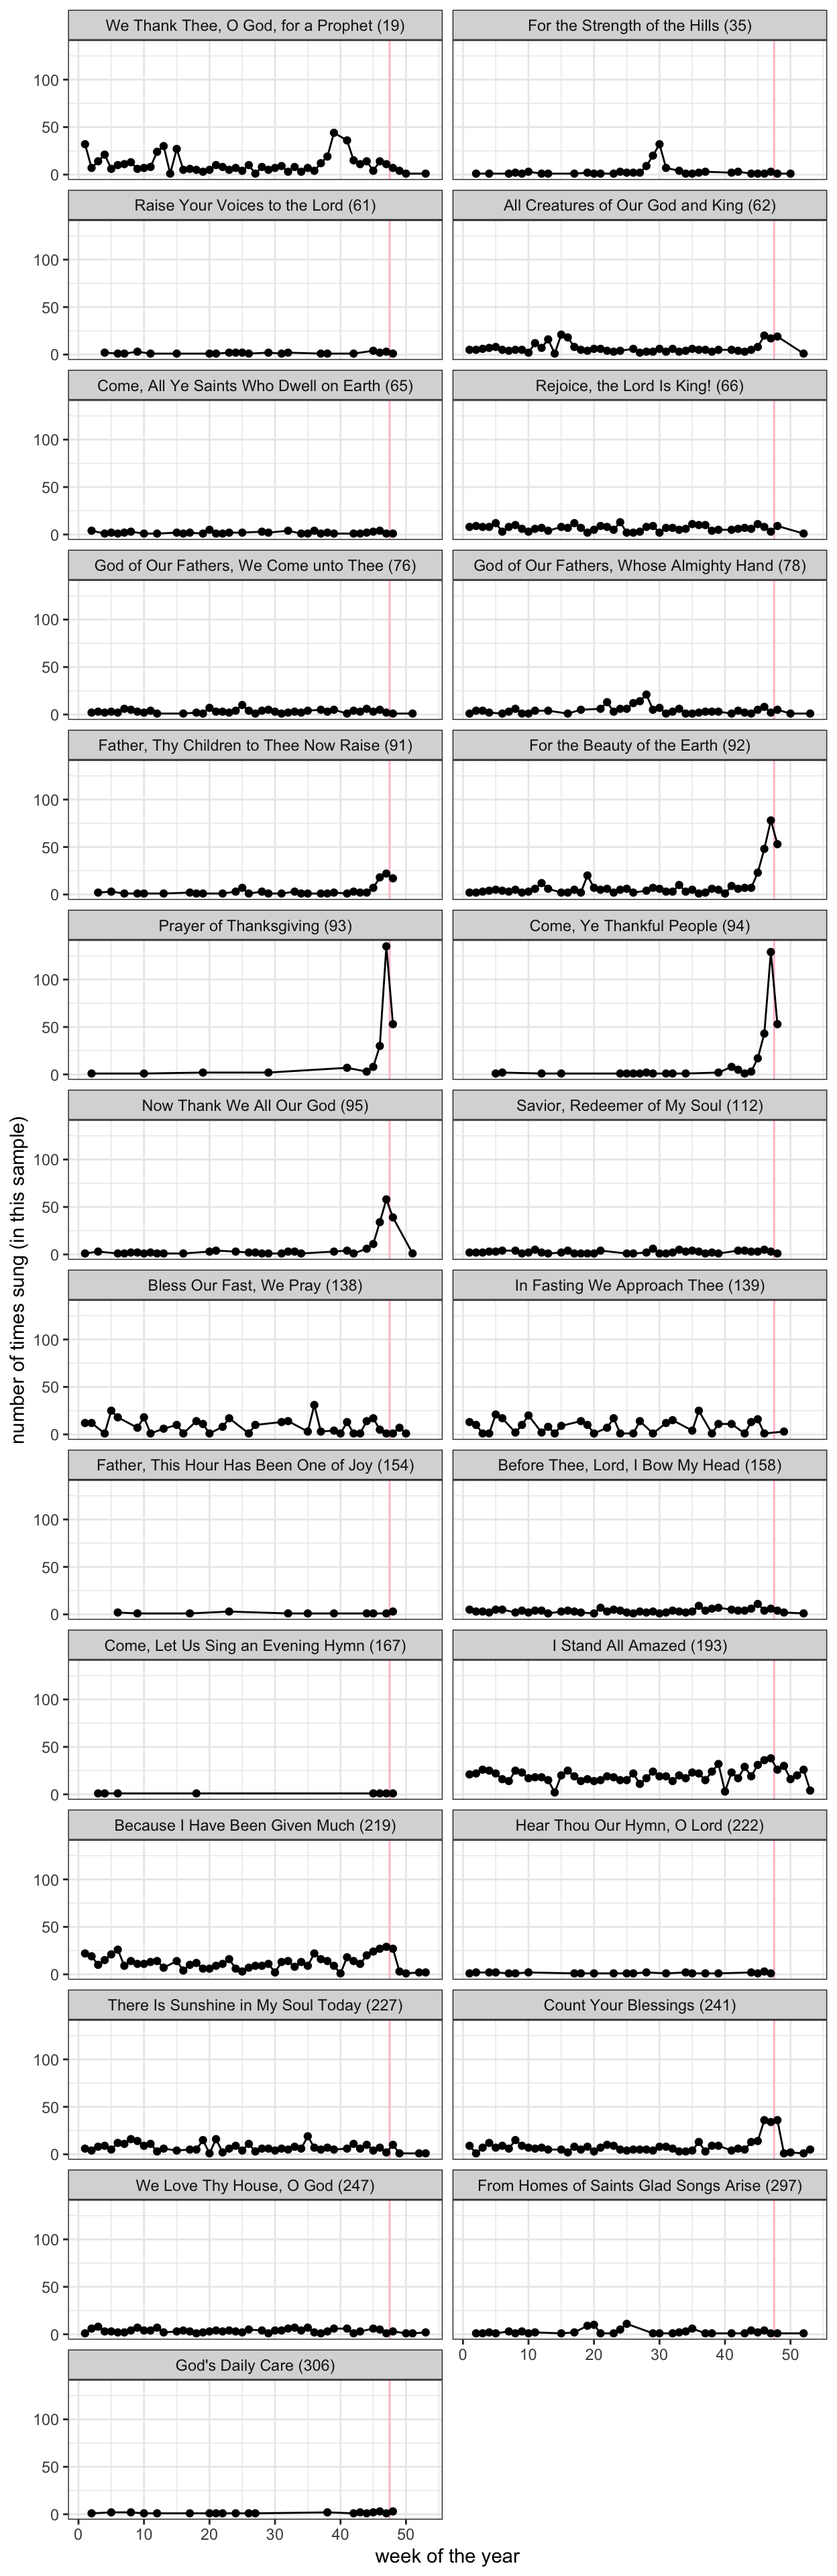
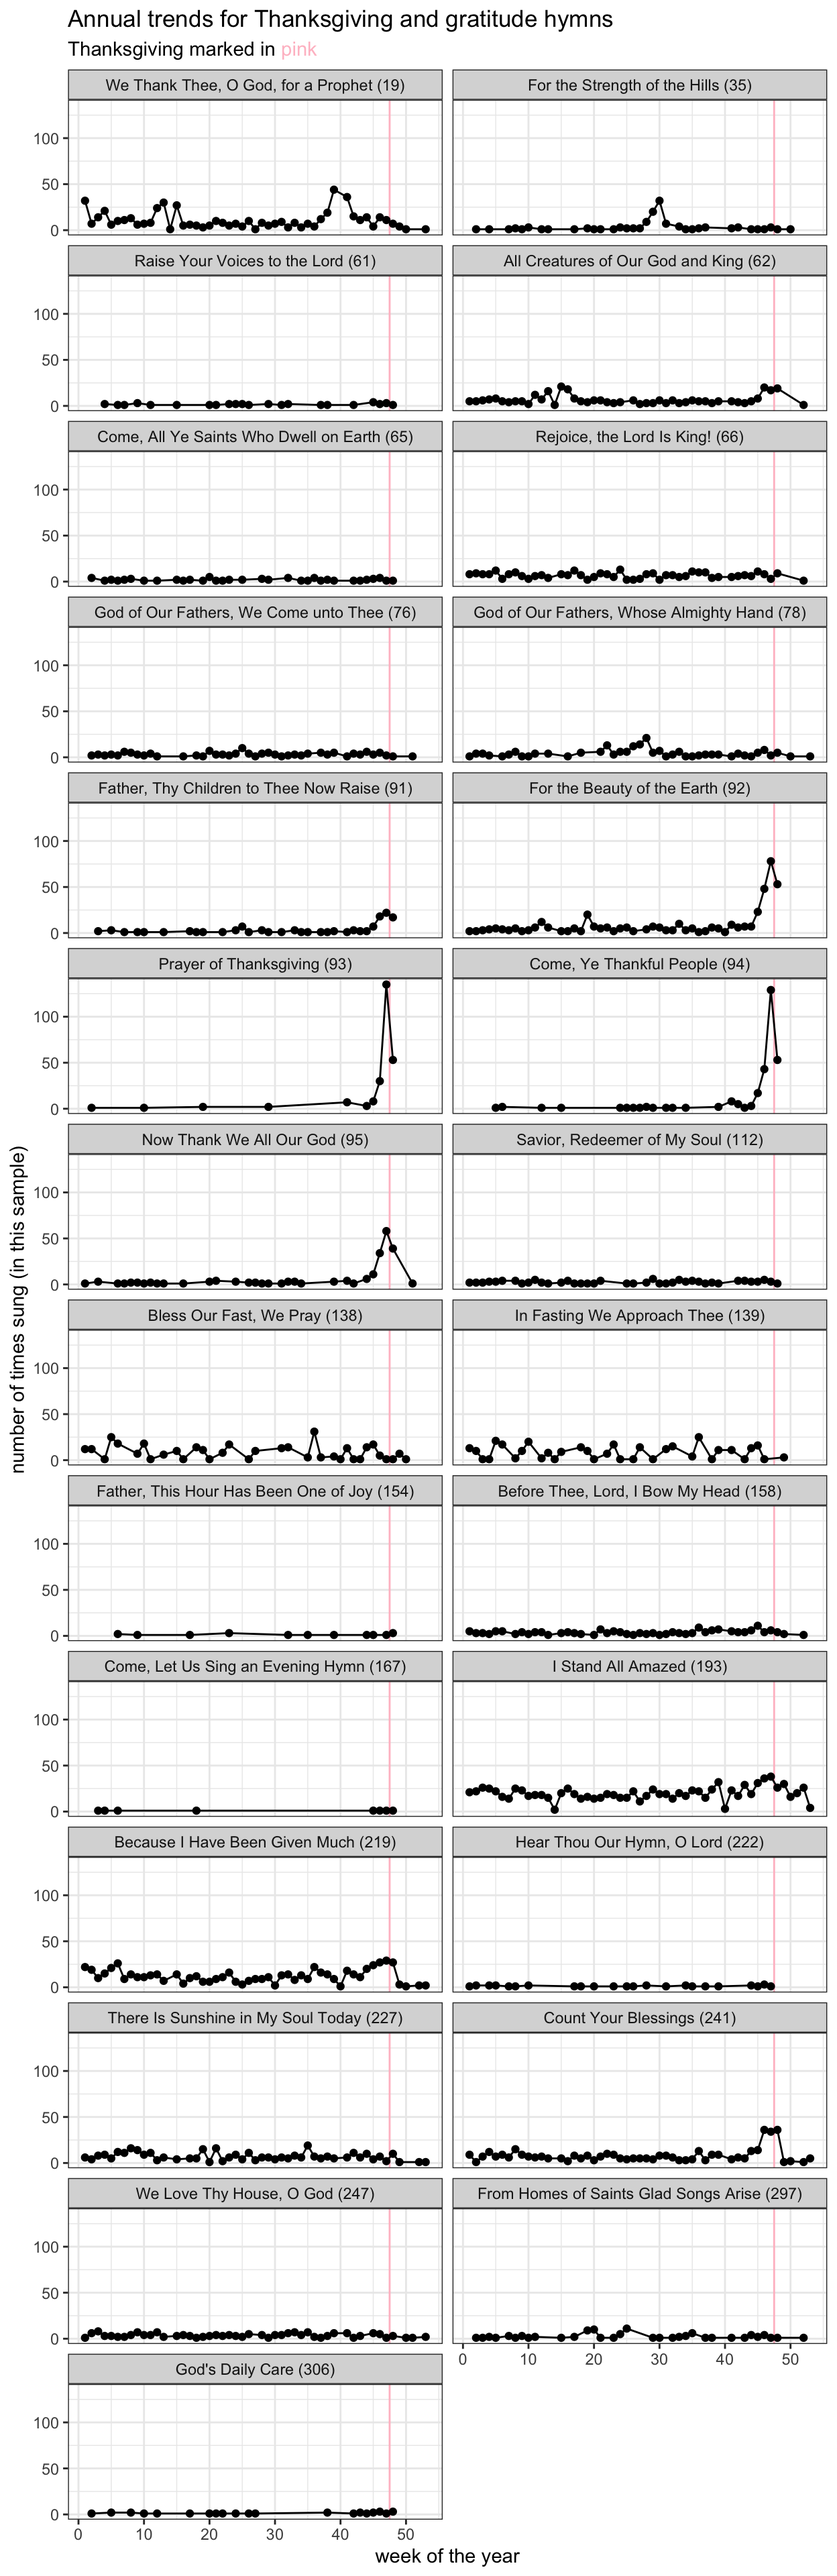
clarified the pink line

diff --git a/docs/findings.html b/docs/findings.html
@@ -211,7 +211,7 @@ gtag('config', 'G-SG4E42NZ2F', { 'anonymize_ip': true});
 
 <div class="quarto-listing quarto-listing-container-default" id="listing-listing">
 <div class="list quarto-listing-default">
-<div class="quarto-post image-right" data-index="0" data-categories="holidays,frequency" data-listing-date-sort="1699077600000" data-listing-file-modified-sort="1699122696733" data-listing-date-modified-sort="NaN" data-listing-reading-time-sort="33">
+<div class="quarto-post image-right" data-index="0" data-categories="holidays,frequency" data-listing-date-sort="1699077600000" data-listing-file-modified-sort="1699122870347" data-listing-date-modified-sort="NaN" data-listing-reading-time-sort="33">
 <div class="thumbnail">
 <p><a href="./posts/thanksgiving/index.html"> <p class="card-img-top"><img src="posts/thanksgiving/index_files/figure-html/fig-thanksgiving_freqs-1.png"  class="thumbnail-image card-img"/></p> </a></p>
 </div>
